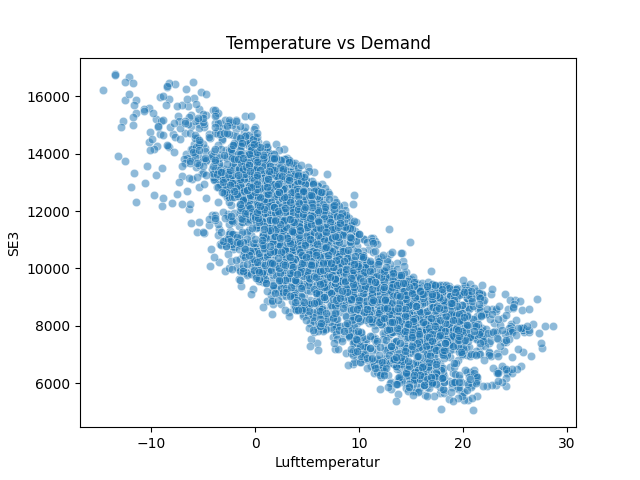
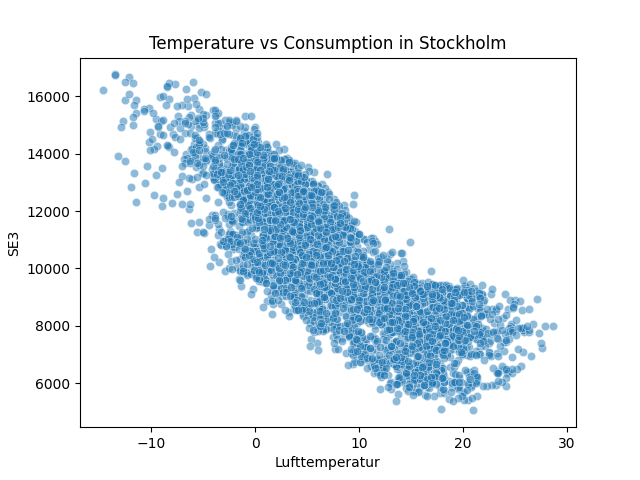
Added plots

Changed region(s): [[0.2188, 0.0625, 0.7812, 0.125]]

diff --git a/extract_data.py b/extract_data.py
@@ -3,6 +3,7 @@ import numpy as np
 import seaborn as sns
 import matplotlib.pyplot as plt
 import datetime
+import pytz
 
 fields = ['Period', 'Avräknad (kWh)']
 df_nuclear = pd.read_excel("RawData/nuclearPowerProduktionsStatistik.xlsx", usecols=fields)
@@ -112,7 +113,7 @@ column_names = ['Year','Month','Day','Temperature_Raw','Temperature_Processed_1'
 temperatures_raw = pd.read_csv(url,sep ='\s+',names = column_names)
 
 temperatures_raw.to_csv("data/stockholm-daily-weather-data.csv", index=False)
-print(temperatures_raw.columns)
+#print(temperatures_raw.columns)
 
 temperatures_hourly = pd.read_csv("data/smhi-stockholm-hourly.csv")
 
@@ -168,14 +169,152 @@ print(df_elec_master)
 
 #df_weather_2015_2021.pop("Tid (UTC)")
 df_elec_result = pd.concat([df_elec_master,df_weather_2015_2021], axis=1)
-print(df_elec_result)
+#print(df_elec_result)
 
 df_elec_result.to_csv("data/result.csv", index=False)
 
 df_final = pd.read_csv("data/result.csv", parse_dates=['Date'], index_col=['Date'])
-
+print(df_final)
 sns.scatterplot(x='Lufttemperatur',y='SE3',data=df_final,palette="mako", alpha = 0.5)
-plt.title('Temperature vs Demand')
+plt.title('Temperature vs Consumption in Stockholm')
 plt.savefig('plots/stockholm_electricity_tempVsconsumption.png')
-plt.show()
+#plt.show()
+
+
+def temp_(x):
+    """
+    Divides the dataset into two categories based on the temperature
+    """
+    if x > 10:
+        return 'Hot'
+    else:
+        return 'NotHot'
+
+def peak_(x):
+    """
+    Divides the dataset into two categories based on the hour of the day
+    """
+    if x >= 7 and x <= 22:
+        return 'AwakeHours'
+    else:
+        return 'SleepHours'
+
+def weekday_(x):
+    """
+    Divides the dataset into two categories based on the day of the week
+    """
+    if x >= 5:
+        return 'Weekend'
+    else:
+        return 'Weekday'
+
+def dayofweek_(x):
+    """
+    Divides the dataset into seven categories based on the day of the week
+    """
+    if x == 0:
+        return 'Monday'
+    elif x == 1:
+        return 'Tuesday'
+    elif x == 2:
+        return 'Wednesday'
+    elif x == 3:
+        return 'Thursday'
+    elif x == 4:
+        return 'Friday'
+    elif x == 5:
+        return 'Saturday'
+    elif x == 6:
+        return 'Sunday'
+
+cet = pytz.timezone('Europe/Stockholm')
+def dst_index(x):
+    """
+    Divides the dataset into two categories based on whether or not daylight savings is in place
+    """
+    if cet.localize(x).dst().seconds == 0:
+        return "NoDST"
+    else:
+        return "DST"
+
+df_final['year'] = df_final.index.year
+
+df_final['month'] = df_final.index.month
+df_final['dayofweek'] = df_final.index.dayofweek
+df_final['day'] = df_final.index.day
+#print(df_final['year'], df_final['month'], df_final['dayofweek'], df_final['day'])
+
+df_final['temp_index'] = df_final['Lufttemperatur'].apply(temp_)
+#df_final['hour_index'] = df_final['Tid (UTC)'].apply(peak_)
+df_final['week_index'] = df_final['dayofweek'].apply(weekday_)
+#df_final['dst_index'] = [dst_index(x) for x in df_final.reset_index()['timestamp']]
+#print(df_final.head(20))
+
+for year in list(df_final['year'].unique()):
+    try:
+        df_final.loc[str(year) + '-01-01','week_index'] = 'Weekend'
+        df_final.loc[str(year) + '-05-01','week_index'] = 'Weekend'
+        df_final.loc[str(year) + '-12-24', 'week_index'] = 'Weekend'
+        df_final.loc[str(year) + '-12-25','week_index'] = 'Weekend'
+        df_final.loc[str(year) + '-12-26','week_index'] = 'Weekend'
+        df_final.loc[str(year) + '-12-31', 'week_index'] = 'Weekend'
+    except:
+        continue
+
+print(df_final.head(20))
+
+#fig, axes = plt.subplots(nrows=1, ncols=2)
+
+sns.scatterplot(x='Lufttemperatur',y='SE3',hue='temp_index',data=df_final,palette="mako", alpha = 0.5);
+plt.title('Temperature vs Consumption (Temperature) in Stockholm');
+plt.savefig('plots/stockholm_electricity_tempVsconsumption (temperature).png')
+
+sns.scatterplot(x='Lufttemperatur',y='SE3',hue='week_index',data=df_final,palette="mako", alpha = 0.5);
+plt.title('Temperature vs Consumption (Day of the week) in Stockholm');
+plt.savefig('plots/stockholm_electricity_tempVsconsumption (day of the week).png')
+
+def sections(x,y):
+    """
+    Divides the dataset into four sections as discussed above
+    """
+    if x == '18:00:00' and y == 'Hot':
+        return 'Section1'
+    elif x == '18:00:00' and y == 'NotHot':
+        return 'Section2'
+    elif x == '06:00:00' and y == 'NotHot':
+        return 'Section3'
+    elif x == '06:00:00' and y == 'Hot':
+        return 'Section4'
+
+
+df_final['sections'] = df_final.apply(lambda x: sections(x['Tid (UTC)'],x['temp_index']), axis=1)
+print(df_final.head(30))
+
+fig, axes = plt.subplots(nrows=2, ncols=2)
+
+sns.scatterplot(x='Lufttemperatur',y='SE3',data=df_final.query('sections == "Section1"'),ax=axes[0,0], alpha = 0.5);
+axes[0,0].set_title('Temperature vs Demand ');
+#plt.savefig('plots/stockholm_electricity_tempVsconsumption (section1).png')
+sns.scatterplot(x='Lufttemperatur',y='SE3',data=df_final.query('sections == "Section2"'),ax=axes[0,1], alpha = 0.5);
+axes[0,1].set_title('Temperature vs Demand ');
+#plt.savefig('plots/stockholm_electricity_tempVsconsumption (section2).png')
+sns.scatterplot(x='Lufttemperatur',y='SE3',data=df_final.query('sections == "Section3"'),ax=axes[1,0], alpha = 0.5);
+#axes[1,0].set_title('Temperature vs Demand ');
+#plt.savefig('plots/stockholm_electricity_tempVsconsumption (section3).png')
+sns.scatterplot(x='Lufttemperatur',y='SE3',data=df_final.query('sections == "Section4"'),ax=axes[1,1], alpha = 0.5);
+#axes[1,1].set_title('Temperature vs Demand ');
+plt.savefig('plots/stockholm_electricity_tempVsconsumption (section).png')
+
+
+fig, axes = plt.subplots(nrows=2, ncols=2)
+
+sns.scatterplot(x='Lufttemperatur',y='SE3',data=df_final.query('sections == "Section1"'),hue='week_index',ax=axes[0,0],palette="mako", alpha = 0.5);
+axes[0,0].set_title('Temperature vs Demand');
+sns.scatterplot(x='Lufttemperatur',y='SE3',data=df_final.query('sections == "Section2"'),hue='week_index',ax=axes[0,1],palette="mako", alpha = 0.5);
+axes[0,1].set_title('Temperature vs Demand');
+sns.scatterplot(x='Lufttemperatur',y='SE3',data=df_final.query('sections == "Section3"'),hue='week_index',ax=axes[1,0],palette="mako", alpha = 0.5);
+axes[1,0].set_title('Temperature vs Demand');
+sns.scatterplot(x='Lufttemperatur',y='SE3',data=df_final.query('sections == "Section4"'),hue='week_index',ax=axes[1,1],palette="mako", alpha = 0.5);
+axes[1,1].set_title('Temperature vs Demand');
+plt.savefig('plots/stockholm_electricity_tempVsconsumption (weekday).png')
 
